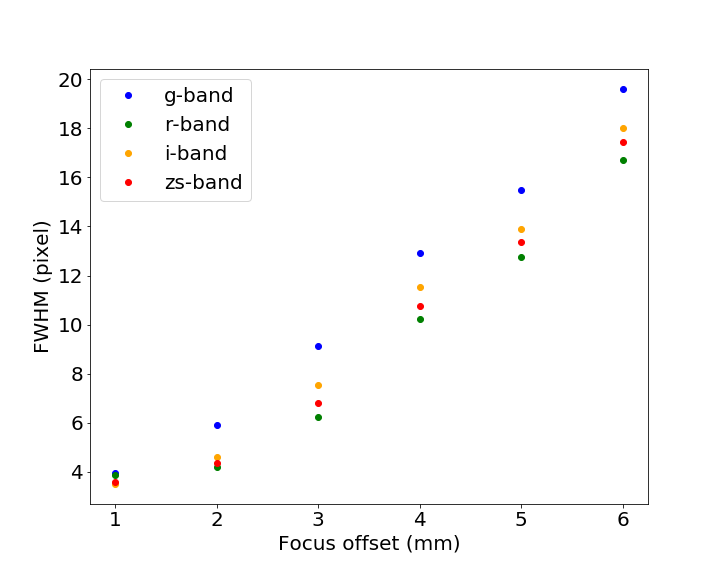
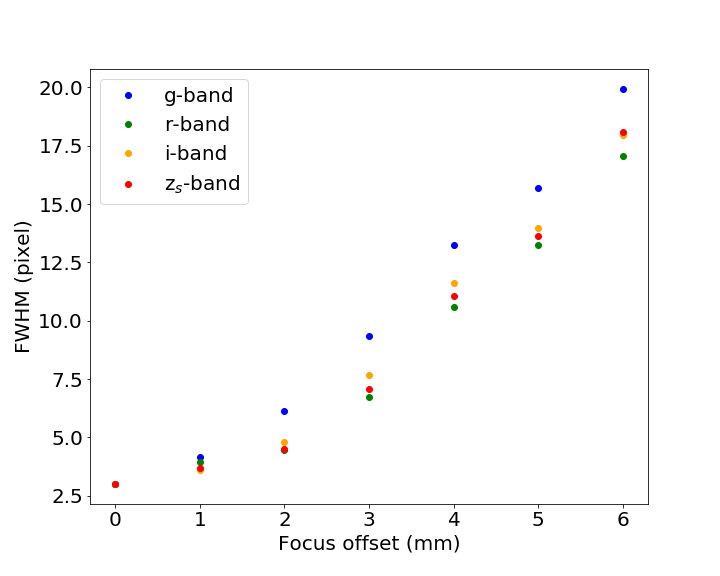
0 focus added

diff --git a/README.md b/README.md
@@ -1,7 +1,7 @@
 # peak_count_estimator
 ## Peak count estimator for MuSCAT3
 
-usage: python peak_count_estimator_muscat3.py [-h] --band {g,r,i,z} --mag MAG --focus {1,2,3,4,5,6} [--exp EXP]
+usage: python peak_count_estimator_muscat3.py [-h] --band {g,r,i,z} --mag MAG --focus {0,1,2,3,4,5,6} [--exp EXP]
 
 
 optional arguments:
